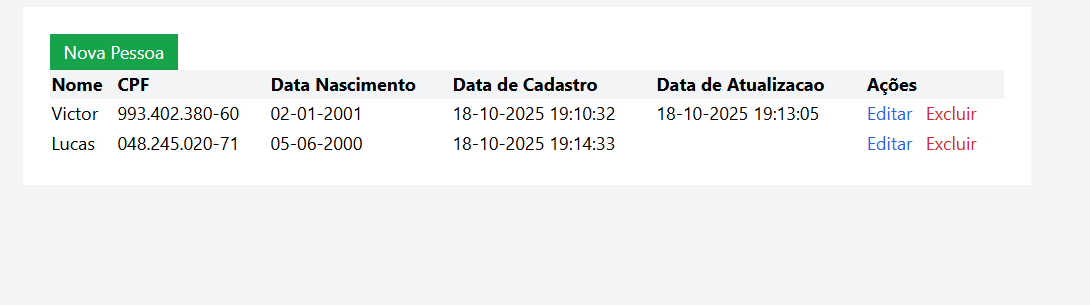
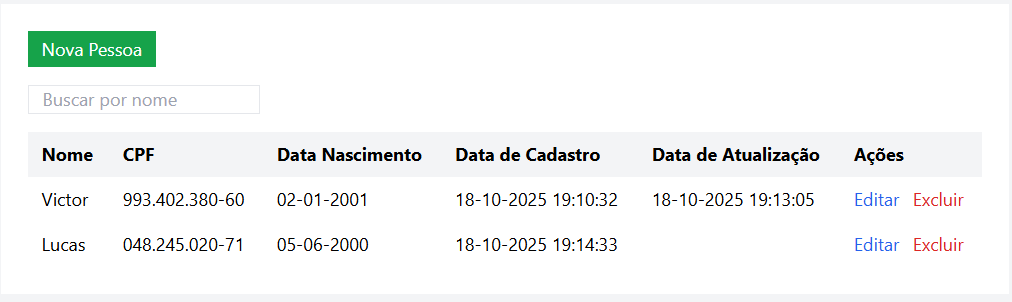
commit

diff --git a/cadastro_de_pessoas.client/src/components/PessoaList.tsx b/cadastro_de_pessoas.client/src/components/PessoaList.tsx
@@ -1,4 +1,4 @@
-import React from 'react';
+import React, { useState } from 'react';
 import type { Pessoa } from '../models/Pessoa';
 import { format, parseISO } from 'date-fns';
 import { formatarCPF } from '../utils';
@@ -16,7 +16,14 @@ export const PessoaList: React.FC<PessoaListProps> = ({
     onDelete,
     isLoading = false,
 }) => {
+    const [filtroNome, setFiltroNome] = useState('');
 
+    const filtro = pessoas.filter((p) => {
+        const nomeMatch = p.pessoaNome
+            .toLowerCase()
+            .includes(filtroNome.toLowerCase());
+        return nomeMatch;
+    });
 
     if (isLoading) {
         return (
@@ -36,35 +43,61 @@ export const PessoaList: React.FC<PessoaListProps> = ({
 
     return (
         <div className="overflow-x-auto">
+            {/* Campos de filtro */}
+            <div className="flex flex-wrap gap-4 mb-4">
+                <input
+                    type="text"
+                    placeholder="Buscar por nome"
+                    value={filtroNome}
+                    onChange={(e) => setFiltroNome(e.target.value)}
+                    className="border px-3"
+                />
+
+            </div>
+
+            {/* Tabela */}
             <table className="w-full border-collapse">
                 <thead>
                     <tr className="bg-gray-100">
-                        <th className="text-left">Nome</th>
-                        <th className="text-left">CPF</th>
-                        <th className="text-left">Data Nascimento</th>
-                        <th className="text-left">Data de Cadastro</th>
-                        <th className="text-left">Data de Atualizacao</th>
-                        <th className="text-left">Ações</th>
+                        <th className="text-left px-3 py-2">Nome</th>
+                        <th className="text-left px-3 py-2">CPF</th>
+                        <th className="text-left px-3 py-2">Data Nascimento</th>
+                        <th className="text-left px-3 py-2">Data de Cadastro</th>
+                        <th className="text-left px-3 py-2">Data de Atualização</th>
+                        <th className="text-left px-3 py-2">Ações</th>
                     </tr>
                 </thead>
                 <tbody>
-                    {pessoas.map((pessoa) => (
-                        <tr key={pessoa.pessoaId} className="hover:bg-gray-50"> 
-                            <td>{pessoa.pessoaNome}</td> 
-                            <td>{formatarCPF(pessoa.pessoaCPF)}</td>
-                            <td>{format(parseISO(pessoa.pessoaDataNascimento), 'dd-MM-yyyy')}</td>
-                            <td>{format(parseISO(pessoa.pessoaDataCadastro), 'dd-MM-yyy HH:mm:ss')}</td>
-                            <td> {pessoa.pessoaDataAtualizacao ? format(parseISO(pessoa.pessoaDataAtualizacao), 'dd-MM-yyyy HH:mm:ss') : ''} </td>
-                            <td>
+                    {filtro.map((pessoa) => (
+                        <tr key={pessoa.pessoaId} className="hover:bg-gray-50">
+                            <td className="px-3 py-2">{pessoa.pessoaNome}</td>
+                            <td className="px-3 py-2">
+                                {formatarCPF(pessoa.pessoaCPF)}
+                            </td>
+                            <td className="px-3 py-2">
+                                {format(parseISO(pessoa.pessoaDataNascimento), 'dd-MM-yyyy')}
+                            </td>
+                            <td className="px-3 py-2">
+                                {format(parseISO(pessoa.pessoaDataCadastro), 'dd-MM-yyyy HH:mm:ss')}
+                            </td>
+                            <td className="px-3 py-2">
+                                {pessoa.pessoaDataAtualizacao
+                                    ? format(
+                                        parseISO(pessoa.pessoaDataAtualizacao),
+                                        'dd-MM-yyyy HH:mm:ss'
+                                    )
+                                    : ''}
+                            </td>
+                            <td className="px-3 py-2">
                                 <button
                                     onClick={() => onEdit(pessoa)}
-                                    className="text-blue-600 mr-3"
+                                    className="text-blue-600 hover:underline mr-3"
                                 >
                                     Editar
                                 </button>
                                 <button
-                                    onClick={() => onDelete(pessoa.pessoaId)} 
-                                    className="text-red-600"
+                                    onClick={() => onDelete(pessoa.pessoaId)}
+                                    className="text-red-600 hover:underline"
                                 >
                                     Excluir
                                 </button>
@@ -73,6 +106,12 @@ export const PessoaList: React.FC<PessoaListProps> = ({
                     ))}
                 </tbody>
             </table>
+
+            {filtro.length === 0 && (
+                <div className="text-center py-4 text-gray-500">
+                    Nenhuma pessoa encontrada com esses filtros.
+                </div>
+            )}
         </div>
     );
 };

diff --git a/cadastro_de_pessoas.client/src/App.tsx b/cadastro_de_pessoas.client/src/App.tsx
@@ -86,7 +86,7 @@ export function App() {
                 <div className="bg-white -lg p-6">
                     <button
                         onClick={criarPessoa}
-                        className="bg-green-600 text-white px-3 py-1"
+                        className="bg-green-600 text-white px-3 py-1 mb-4"
                     >
                         Nova Pessoa
                     </button>
